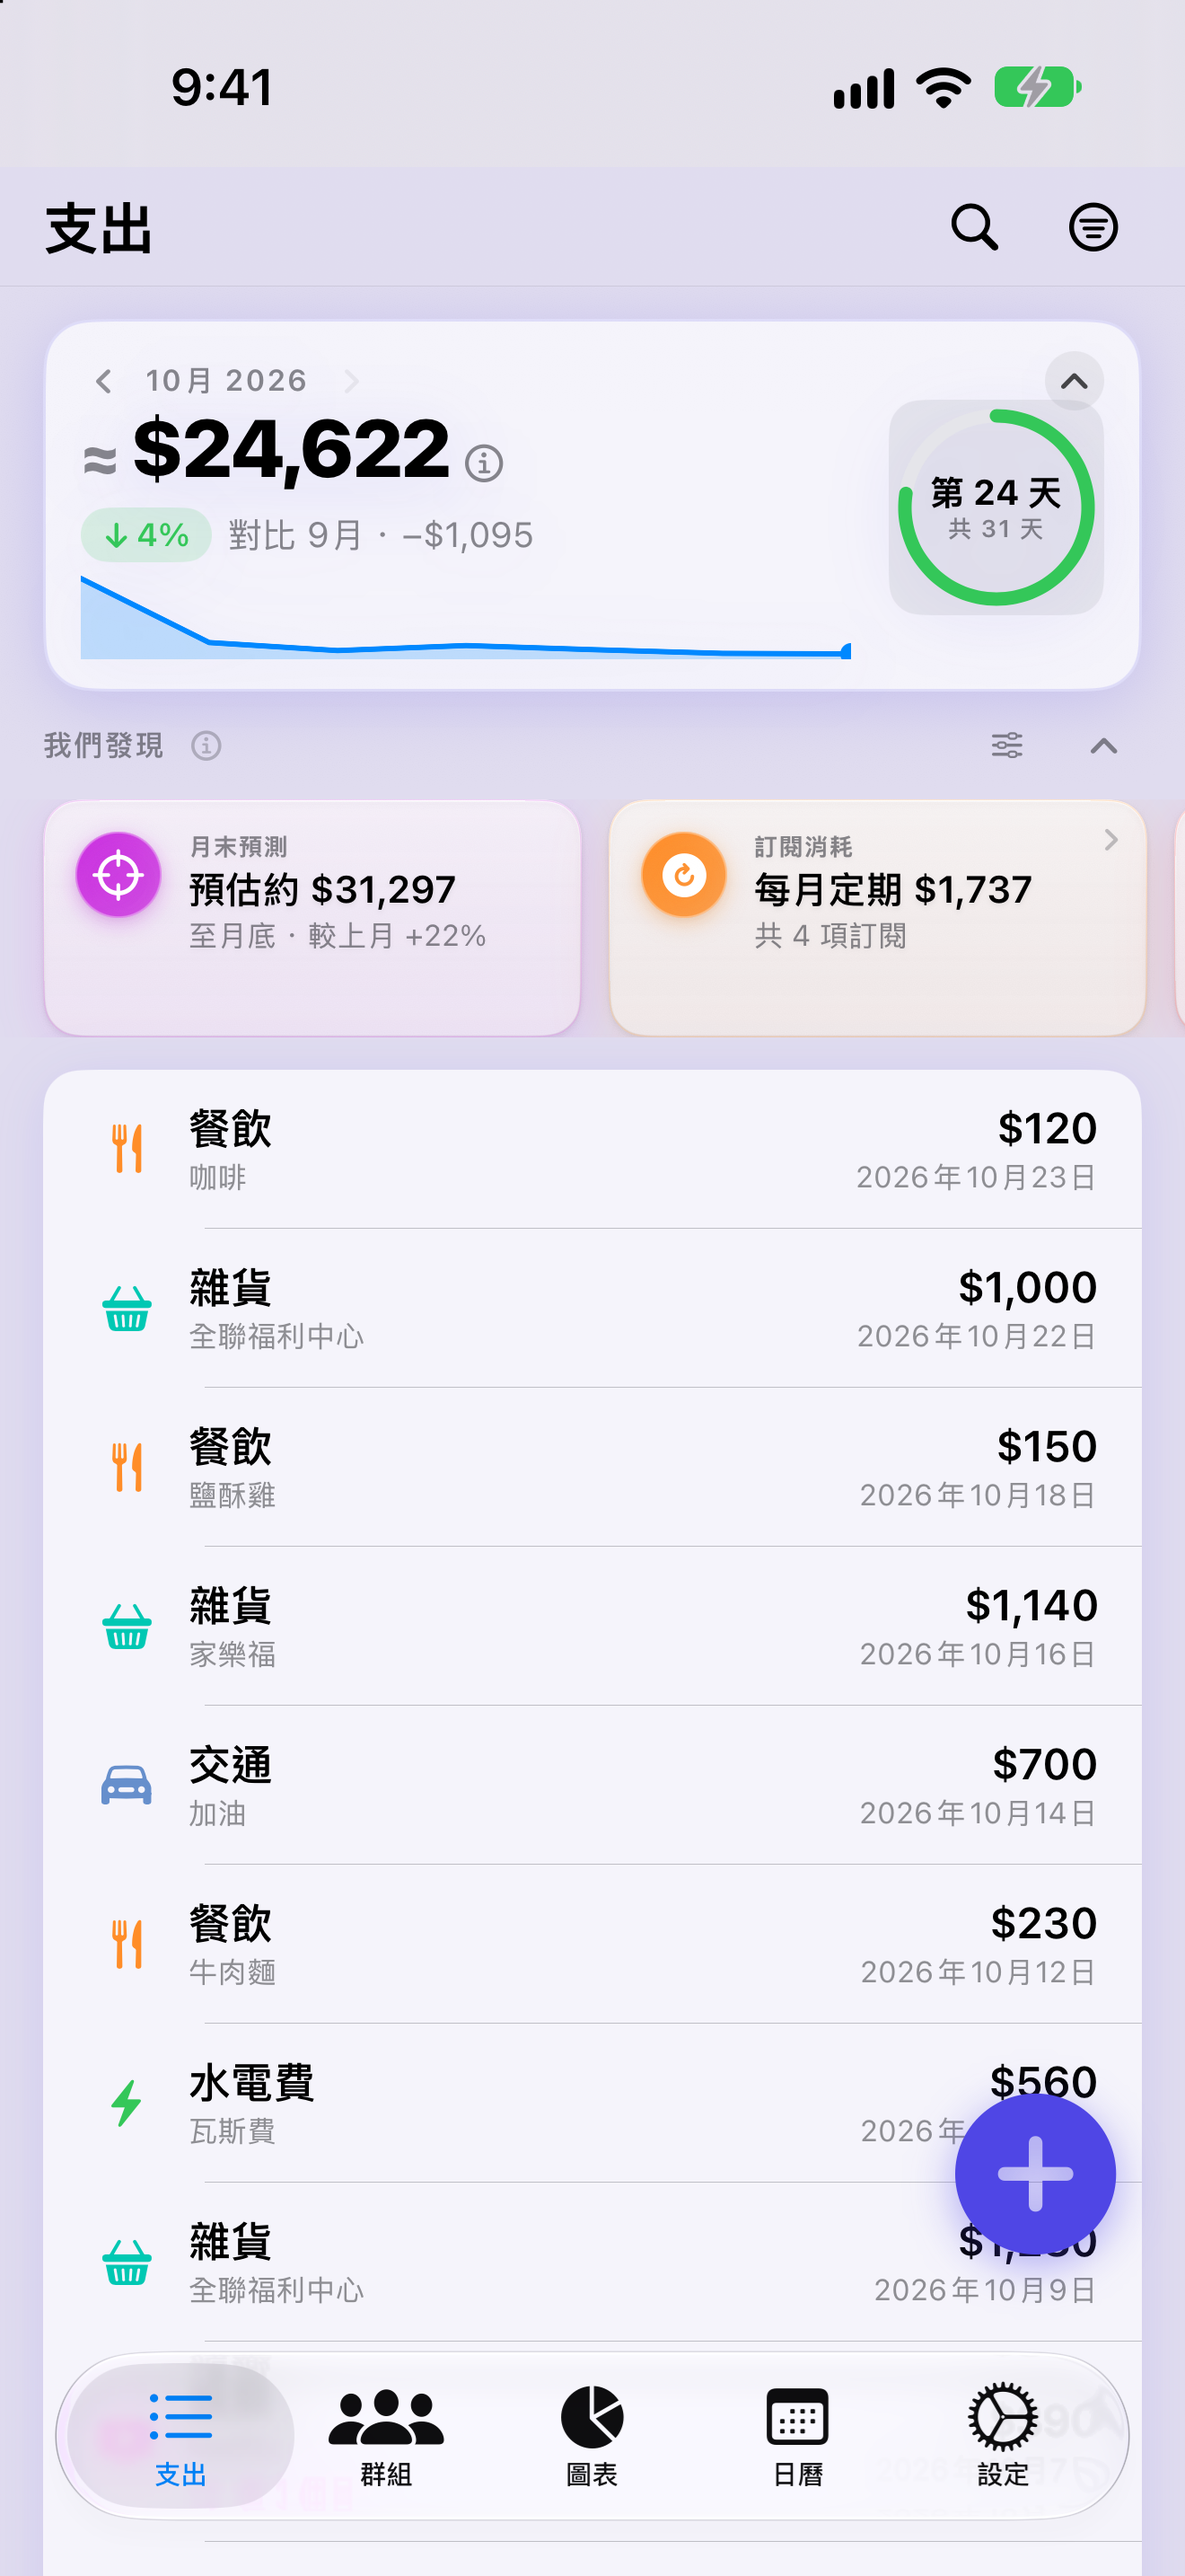
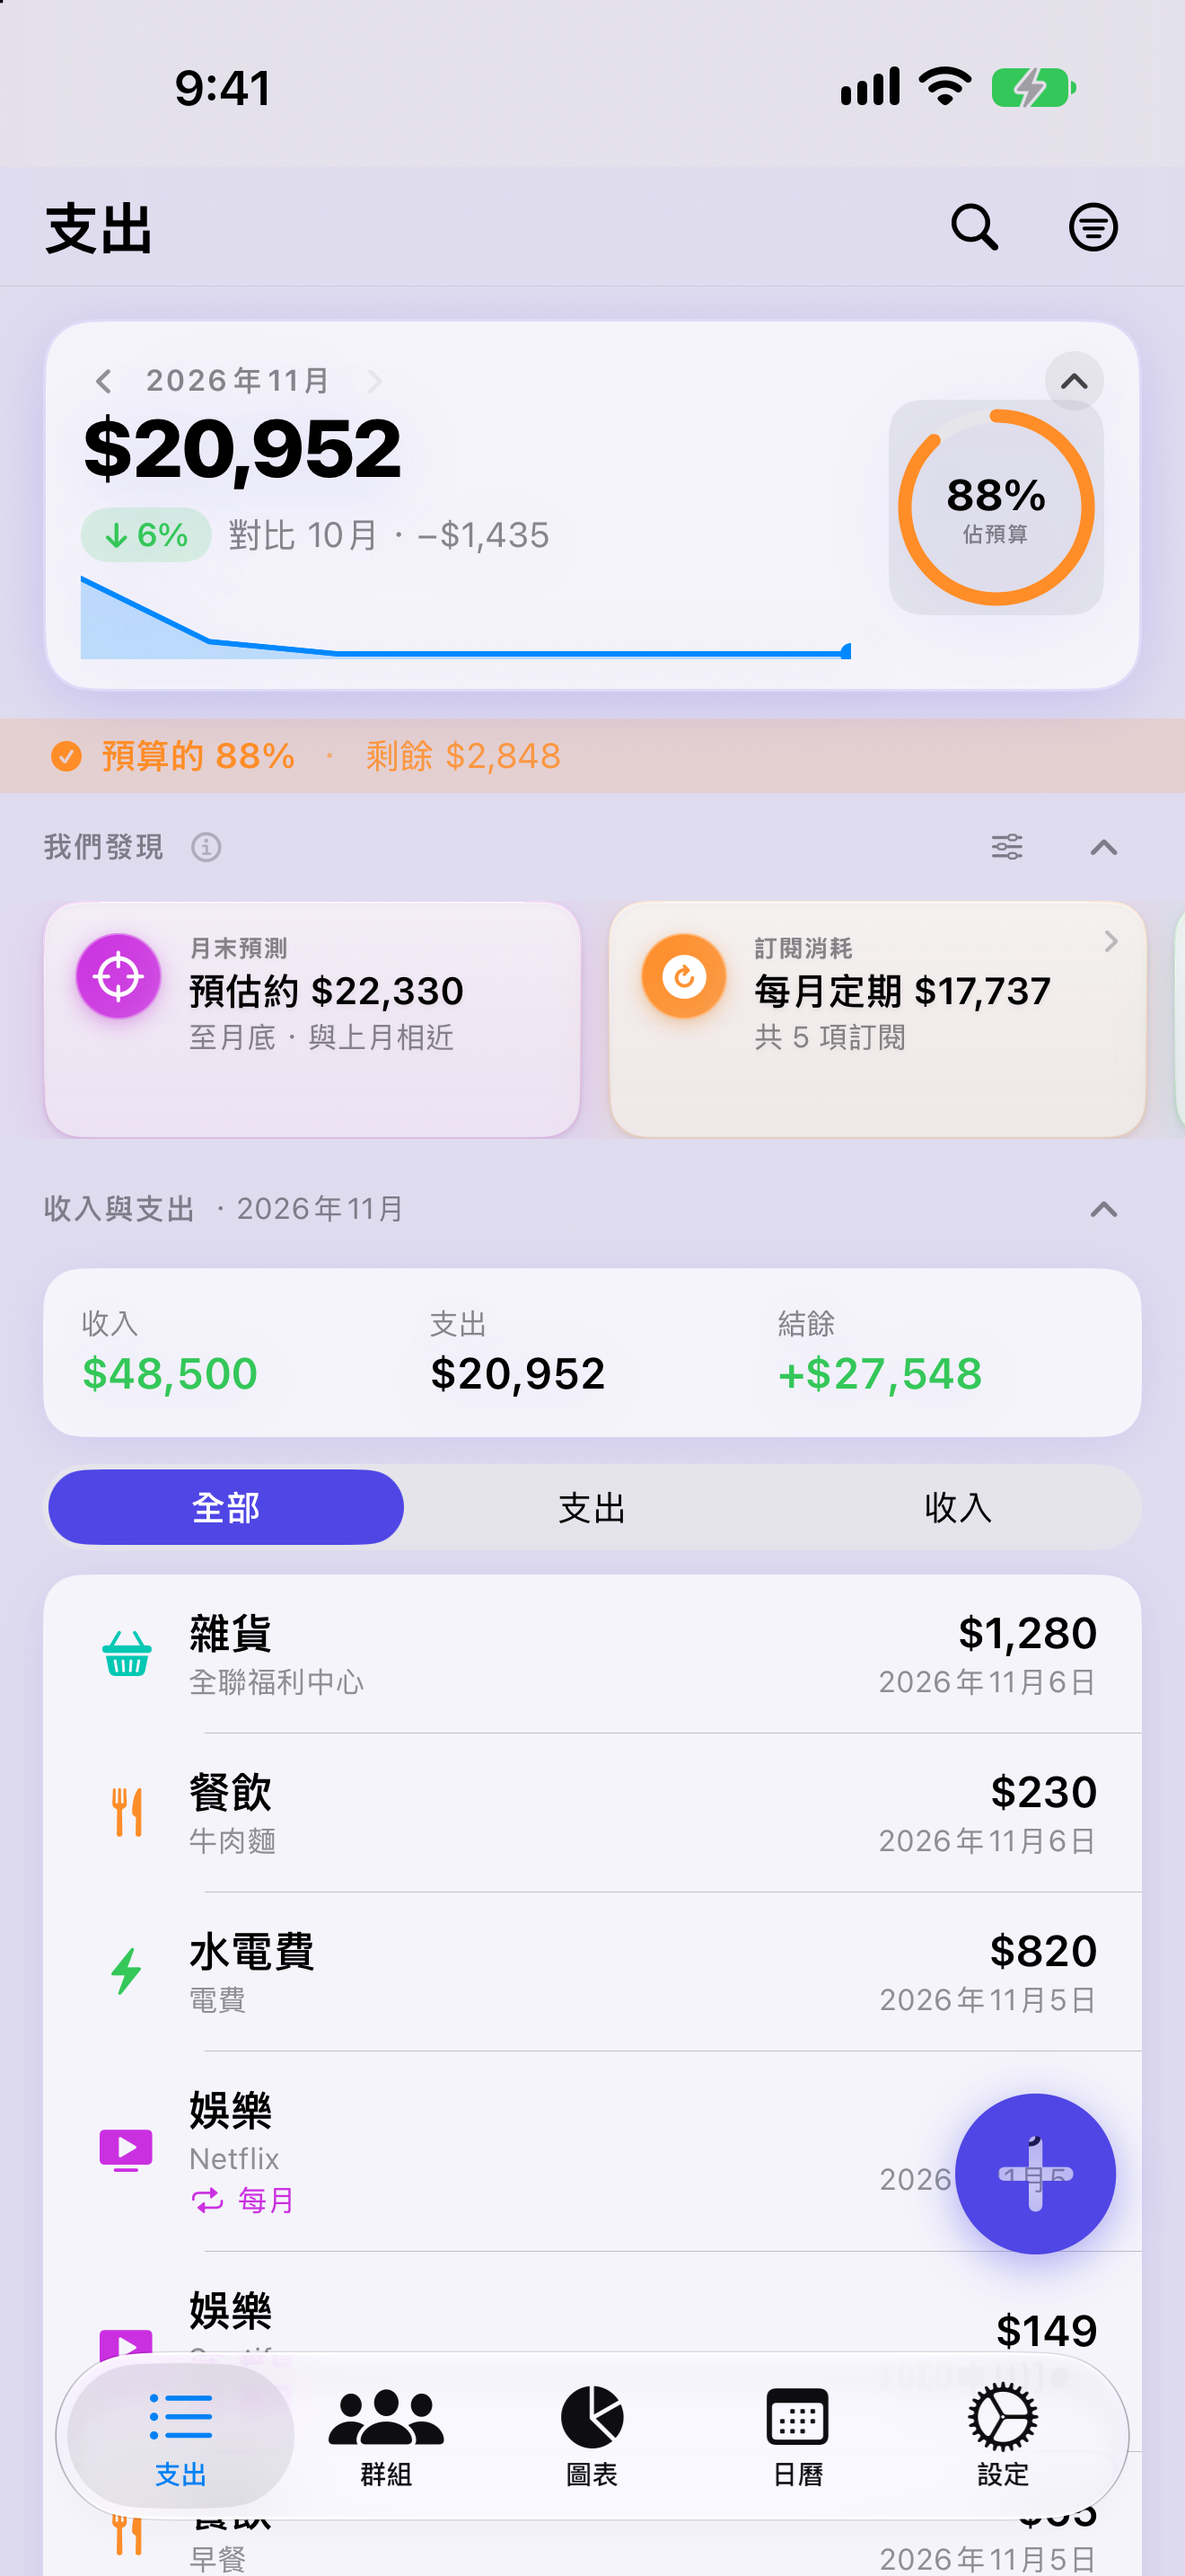
Show income on the website's personal-expenses phone image

diff --git a/Taiwan.html b/Taiwan.html
@@ -349,7 +349,7 @@
         <li><svg viewBox="0 0 24 24"><path d="M9 16.2 4.8 12l-1.4 1.4L9 19 21 7l-1.4-1.4z"/></svg>預算進度圈讓您一眼掌握本月剩餘預算</li> 
       </ul>
     </div>
-    <div class="feat-img"><img class="phone" src="./assets/phone-solo-zh.png" alt="個人支出清單——10 月支出總額、預算進度圈、洞察卡片，以及依分類整理的各筆開銷"></div>
+    <div class="feat-img"><img class="phone" src="./assets/phone-solo-zh.png" alt="個人支出清單——11 月支出總額、預算進度圈、洞察卡片，以及顯示收入、支出與結餘的收入與支出卡片"></div>
   </section>
 
   <section class="feat">

diff --git a/index.html b/index.html
@@ -347,7 +347,7 @@
         <li><svg viewBox="0 0 24 24"><path d="M9 16.2 4.8 12l-1.4 1.4L9 19 21 7l-1.4-1.4z"/></svg>A budget pace ring shows how much of your monthly budget is left, at a glance</li>
       </ul>
     </div>
-    <div class="feat-img"><img class="phone" src="./assets/phone-solo.png" alt="Personal expense list — solo spending sorted by category"></div>
+    <div class="feat-img"><img class="phone" src="./assets/phone-solo.png" alt="Personal expense list — November total, budget ring, insights, and the Income &amp; Spending card with income, spending and net"></div>
   </section>
 
   <section class="feat">
